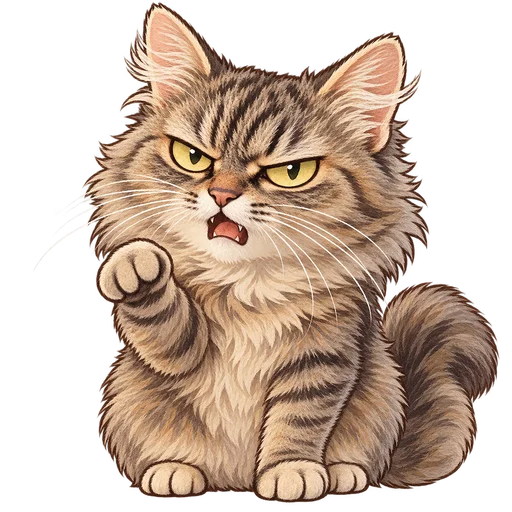
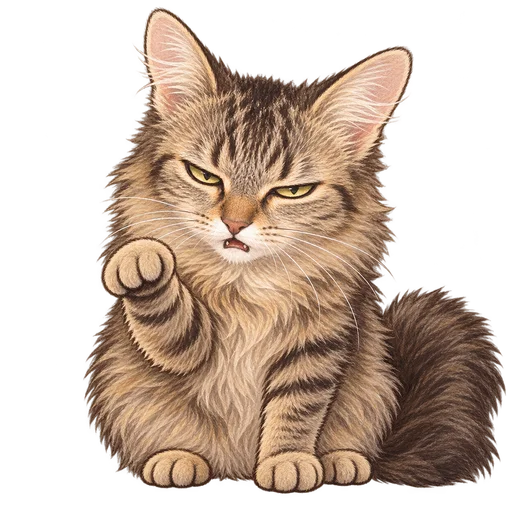
fix(art): refine Kira from her personal photo reference

diff --git a/docs/assets-v05.md b/docs/assets-v05.md
@@ -5,7 +5,7 @@ Six original character illustrations were generated with the built-in image gene
 - Runtime assets: `public/art/companions/{id}.webp`.
 - Final generation prompts: [companion-art-prompts.json](companion-art-prompts.json).
 - Each character is 512 × 512 with transparent alpha. The bundled Sharp library was used only for delivery resizing and WebP encoding (quality85, alpha100). No new project dependency.
-- Combined compressed size: **386,008 bytes**. All six are local and available offline.
+- Combined compressed size: **380,000 bytes**. All six are local and available offline.
 - The same artwork is used in collection cards and the workshop. The latter is a camera-facing Three.js Sprite over the existing 3D cushion; workers remain procedural 3D cats.
 - Only the currently selected portrait owns a GPU texture. Changing selection releases the old texture. Stale asynchronous loads cannot replace a newer selection, and the controller disposes its texture/material on teardown.
 - Unavailable/locked companions never show on the cushion. Loading or failed portraits remain hidden instead of displaying stale art. The HTML collection and its bonuses do not depend on WebGL rendering.
@@ -15,3 +15,7 @@ The rest of the game's artwork and music credits are unchanged. This is generate
 ## Luigi reference correction — 25 September 2026
 
 The later photograph supplied by the user shows a fluffy brown/grey tabby with dark stripes, a white muzzle, bib, belly and sock paws. Luigi's illustration now follows those markings while retaining its feisty expression, upright pose and alpha silhouette. The original photograph is not included. This is an art-only correction: no buffs, unlock conditions, IDs, save data or runtime code changed.
+
+## Kira personal reference correction — 25 September 2026
+
+The user supplied a photograph of the actual Kira after the initial generic tabby reference. Her portrait now follows the more tapered face, large ears, narrow unimpressed eyes, fine brown/grey tabby markings, cream chest and dark fluffy tail. The bossy raised paw and illustrated style remain. The personal photograph is not redistributed. This art-only update preserves all companion behavior, bonuses and saved progress.

diff --git a/README.md b/README.md
@@ -16,7 +16,7 @@ No package installation or internet connection is needed to play the included bu
 - The selected unlocked companion appears on the workshop's 3D cushion. A new game leaves it empty. **Only the selected companion grants a bonus**; collecting more cats does not stack buffs.
 - Harder permanent challenges span tapping, crew growth, upgrades, offline production, and restarts. Collection cards show requirements, progress, and each bonus in English and Spanish.
 - Existing earned companions and their selection remain unlocked at the same save indices. New conditions apply to companions not already earned; no player progress is confiscated.
-- Six local transparent illustrations add 386,008 bytes. No new runtime dependency, account, download-at-playtime, or monetization was added.
+- Six local transparent illustrations add 380,000 bytes. No new runtime dependency, account, download-at-playtime, or monetization was added.
 
 | Companion | Unlock challenge | Selected bonus |
 | --- | --- | --- |
